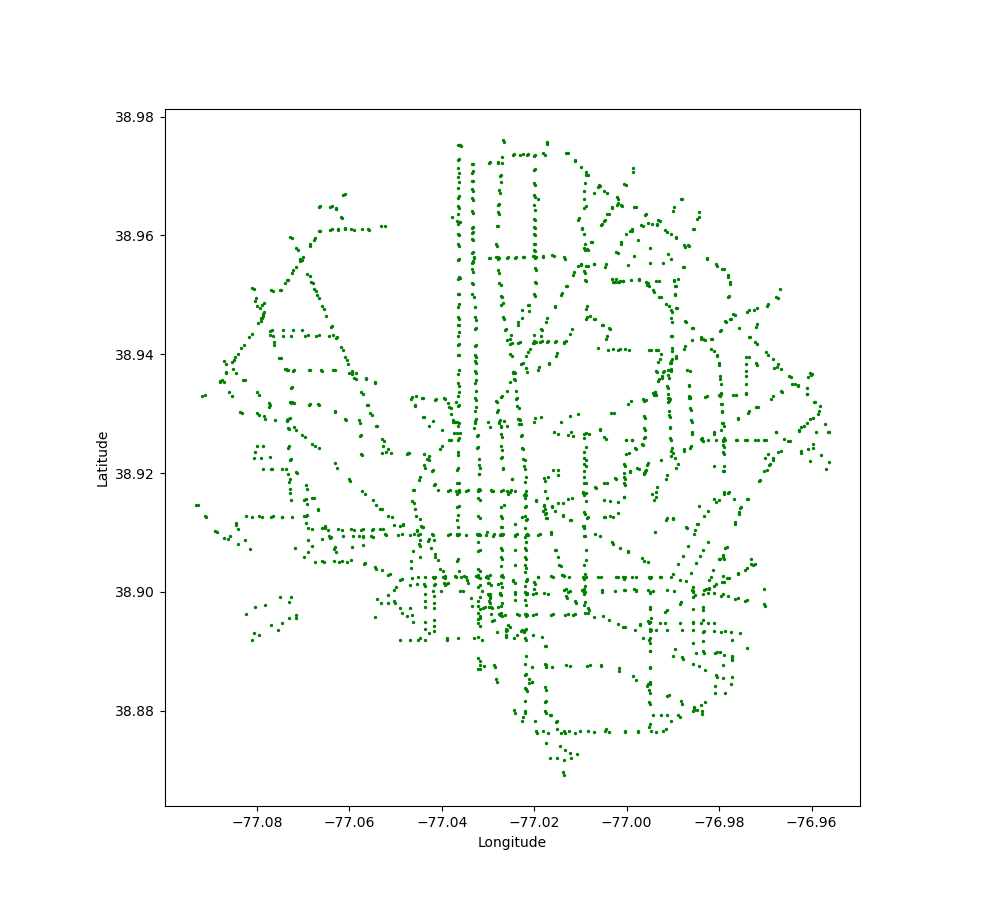
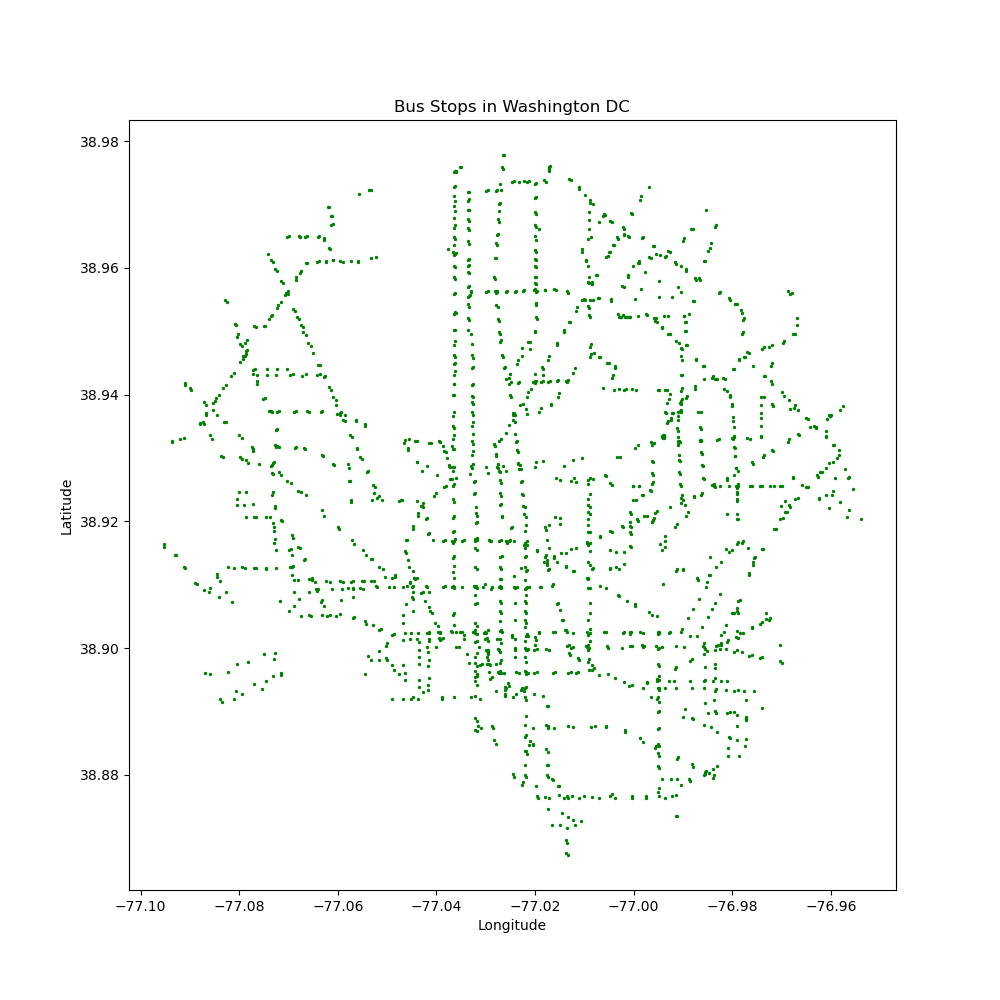
updated visual

diff --git a/sean.py b/sean.py
@@ -88,6 +88,7 @@ def plot_bus_stops_from_db(db_name):
     # Set axis labels
     ax.set_xlabel('Longitude')
     ax.set_ylabel('Latitude')
+    ax.set_title("Bus Stops in Washington DC")
     
     # Show plot
     plt.show()
